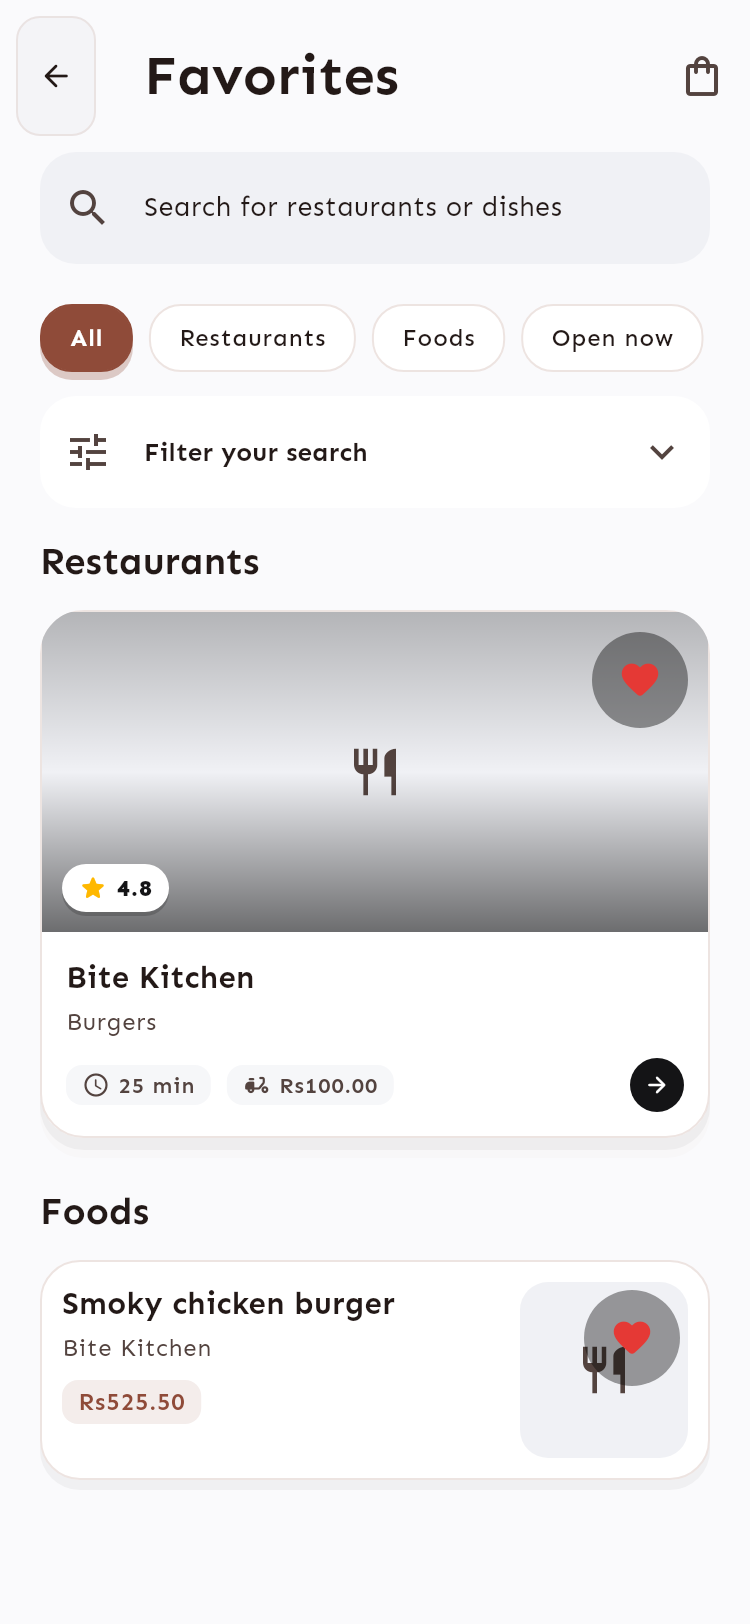
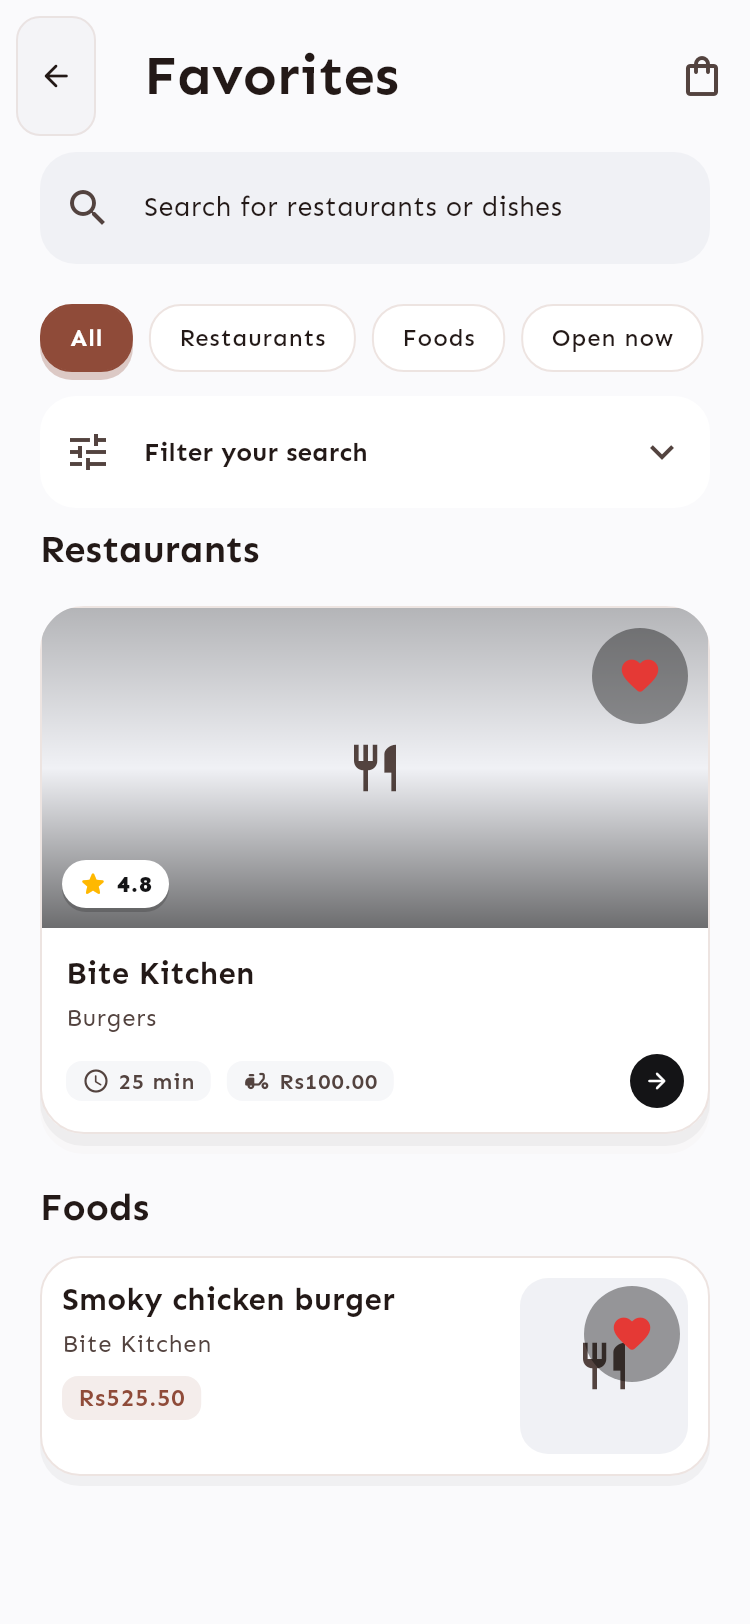
fix(home,discovery): pin See All to side edge and optimize spacing between search, categories, filter and restaurant lists

diff --git a/lib/widgets/app_section_heading.dart b/lib/widgets/app_section_heading.dart
@@ -24,7 +24,9 @@ class AppSectionHeading extends StatelessWidget {
           context,
         ).copyWith(fontWeight: FontWeight.bold),
       );
-      if (actionLabel == null || onAction == null) return heading;
+      if (actionLabel == null || onAction == null) {
+        return SizedBox(width: double.infinity, child: heading);
+      }
       final action = TextButton(
         onPressed: onAction,
         style: TextButton.styleFrom(
@@ -41,18 +43,24 @@ class AppSectionHeading extends StatelessWidget {
         ),
       );
       if (MediaQuery.textScalerOf(context).scale(1) > 1.3) {
-        return Column(
-          crossAxisAlignment: CrossAxisAlignment.start,
-          children: [heading, 4.verticalSpace, action],
+        return SizedBox(
+          width: double.infinity,
+          child: Column(
+            crossAxisAlignment: CrossAxisAlignment.start,
+            children: [heading, 4.verticalSpace, action],
+          ),
         );
       }
-      return Row(
-        mainAxisAlignment: MainAxisAlignment.spaceBetween,
-        children: [
-          Expanded(child: heading),
-          8.horizontalSpace,
-          action,
-        ],
+      return SizedBox(
+        width: double.infinity,
+        child: Row(
+          mainAxisAlignment: MainAxisAlignment.spaceBetween,
+          children: [
+            Expanded(child: heading),
+            8.horizontalSpace,
+            action,
+          ],
+        ),
       );
     },
   );

diff --git a/lib/features/home/sections/home_categories_section.dart b/lib/features/home/sections/home_categories_section.dart
@@ -14,7 +14,7 @@ class HomeCategoriesSection extends StatelessWidget {
   const HomeCategoriesSection({super.key});
   @override
   Widget build(BuildContext context) => SliverPadding(
-    padding: context.contentInsets(bottom: 22),
+    padding: context.contentInsets(bottom: 14),
     sliver: SliverToBoxAdapter(
       child: Column(
         crossAxisAlignment: CrossAxisAlignment.start,
@@ -64,7 +64,7 @@ class HomeCategoriesSection extends StatelessWidget {
                                   category: state.categories[i],
                                 ),
                               ),
-                              12.horizontalSpace,
+                              10.horizontalSpace,
                             ],
                           ],
                         ),

diff --git a/lib/features/discovery/sections/discovery_filters_section.dart b/lib/features/discovery/sections/discovery_filters_section.dart
@@ -11,7 +11,7 @@ class DiscoveryFiltersSection extends StatelessWidget {
   const DiscoveryFiltersSection({super.key});
   @override
   Widget build(BuildContext context) => SliverPadding(
-    padding: context.contentInsets(bottom: 14),
+    padding: context.contentInsets(bottom: 8),
     sliver: SliverToBoxAdapter(
       child: BlocBuilder<DiscoveryCubit, DiscoveryState>(
         builder: (context, state) {

diff --git a/lib/features/home/sections/home_search_section.dart b/lib/features/home/sections/home_search_section.dart
@@ -8,7 +8,7 @@ class HomeSearchSection extends StatelessWidget {
   const HomeSearchSection({super.key});
   @override
   Widget build(BuildContext context) => SliverPadding(
-    padding: context.contentInsets(bottom: 16),
+    padding: context.contentInsets(bottom: 12),
     sliver: SliverToBoxAdapter(
       child: HomeSearchButton(
         label: AppLocalizations.of(context)!.searchForRestaurantsOrDishes,

diff --git a/lib/features/home/sections/home_intro_section.dart b/lib/features/home/sections/home_intro_section.dart
@@ -7,7 +7,7 @@ class HomeIntroSection extends StatelessWidget {
   const HomeIntroSection({super.key});
   @override
   Widget build(BuildContext context) => SliverPadding(
-    padding: context.contentInsets(top: 14, bottom: 16),
+    padding: context.contentInsets(top: 10, bottom: 12),
     sliver: SliverToBoxAdapter(
       child: HomeIntro(
         headline: AppLocalizations.of(context)!.homeHeadline,

diff --git a/lib/features/discovery/sections/discovery_restaurants_section.dart b/lib/features/discovery/sections/discovery_restaurants_section.dart
@@ -35,7 +35,7 @@ class DiscoveryRestaurantsSection extends StatelessWidget {
               crossAxisAlignment: CrossAxisAlignment.start,
               children: [
                 AppSectionHeading(title: t.restaurants),
-                12.verticalSpace,
+                16.verticalSpace,
               ],
             ),
           ),

diff --git a/lib/features/home/sections/home_restaurants_section.dart b/lib/features/home/sections/home_restaurants_section.dart
@@ -27,7 +27,7 @@ class HomeRestaurantsSection extends StatelessWidget {
                 onAction: () =>
                     AppNavigation.push(context, '/all_restaurants_screen'),
               ),
-              12.verticalSpace,
+              16.verticalSpace,
             ],
           ),
         ),
